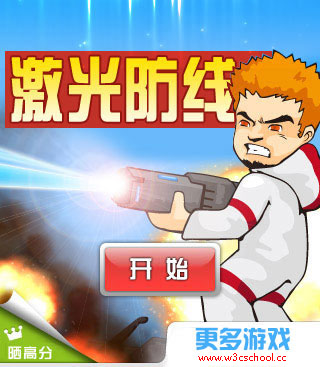
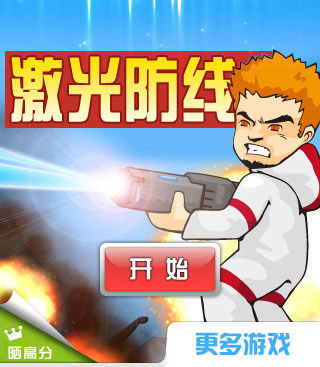
change

Changed region(s): [[0.5938, 0.8692, 0.9062, 0.9891]]

diff --git a/wx/public_html/games/games/hl/index.htm b/wx/public_html/games/games/hl/index.htm
@@ -75,7 +75,7 @@
 
         <div style="position: absolute;margin-top: 0px;margin-left: 0px;width:100%;">
           <a href="http://wx.zongyangtech.cn/games/qrcode/index.html">
-        <img src="http://wx.zongyangtech.cn/games/banner.jpg" style="position: absolute;margin-top: 0px;width:100%;height:50px;"></a>
+        <img src="http://wx.zongyangtech.cn/games/banner.png" style="position: absolute;margin-top: 0px;width:100%;height:50px;"></a>
         </div>
         <div style="position: absolute;margin-top: 50px;margin-left: 0px;width:100%;" id="container">
 		<canvas width="320" height="480" class="canvas" style="background-color: rgb(0, 0, 0); background-image: url(./library/gameback3.gif); "></canvas>

diff --git a/wx/public_html/games/games/ld/index.htm b/wx/public_html/games/games/ld/index.htm
@@ -75,7 +75,7 @@
 
         <div style="position: absolute;margin-top: 0px;margin-left: 0px;width:100%;">
           <a href="http://wx.zongyangtech.cn/games/qrcode/index.html">
-        <img src="http://wx.zongyangtech.cn/games/banner.jpg" style="position: absolute;margin-top: 0px;width:100%;height:50px;"></a>
+        <img src="http://wx.zongyangtech.cn/games/banner.png" style="position: absolute;margin-top: 0px;width:100%;height:50px;"></a>
         </div>
         <div style="position: absolute;margin-top: 50px;margin-left: 0px;width:100%;" id="container">
 		<canvas width="320" height="480" class="canvas" style="background-image: none; background-color: rgb(20, 39, 96); "></canvas>

diff --git a/wx/public_html/games/games/jb/index.htm b/wx/public_html/games/games/jb/index.htm
@@ -75,7 +75,7 @@
 
         <div style="position: absolute;margin-top: 0px;margin-left: 0px;width:100%;">
           <a href="http://wx.zongyangtech.cn/games/qrcode/index.html">
-        <img src="http://wx.zongyangtech.cn/games/banner.jpg" style="position: absolute;margin-top: 0px;width:100%;height:50px;"></a>
+        <img src="http://wx.zongyangtech.cn/games/banner.png" style="position: absolute;margin-top: 0px;width:100%;height:50px;"></a>
         </div>
         <div style="position: absolute;margin-top: 50px;margin-left: 0px;width:100%;" id="container">
 		<canvas width="320" height="480" class="canvas"></canvas>

diff --git a/wx/public_html/games/games/duolao/index.html b/wx/public_html/games/games/duolao/index.html
@@ -18,7 +18,7 @@
 
 <div style="position: absolute;margin-top: 0px;margin-left: 0px;width:100%;">
   <a href="http://wx.zongyangtech.cn/games/qrcode/index.html">
-<img src="http://wx.zongyangtech.cn/games/banner.jpg" style="position: absolute;margin-top: 0px;width:100%;height:50px;"></a>
+<img src="http://wx.zongyangtech.cn/games/banner.png" style="position: absolute;margin-top: 0px;width:100%;height:50px;"></a>
 </div>
 <div style="position: absolute;margin-top: 50px;margin-left: 0px;width:100%;">
 <canvas id="gameCanvas" width="480" height="800" style="background:#fff">

diff --git a/wx/public_html/games/games/duimutou/index.html b/wx/public_html/games/games/duimutou/index.html
@@ -57,7 +57,7 @@ margin: auto;}
 <div style="width:320px; height: 500px;">
 <div style="width:100%; height:50px;text-align:center;overflow:hidden;margin:0 auto;margin-bottom: 10px;">
   <a href="http://wx.zongyangtech.cn/games/qrcode/index.html">
-<img src="http://wx.zongyangtech.cn/games/banner.jpg" style="width:100%;height:50px;"></a>
+<img src="http://wx.zongyangtech.cn/games/banner.png" style="width:100%;height:50px;"></a>
 </div>
 <div style="position: absolute;margin-top: 400px; width: 320px; heigth: 48px; background: #ffffff"></div>
 

diff --git a/wx/public_html/phone_web/index.html b/wx/public_html/phone_web/index.html
@@ -118,7 +118,7 @@
 			<li>
 				<div class="slide">
 					<div class="related">
-                                                <p>关注纵阳科技，我们承诺连续100天每天为您奉献一款微信小游戏！</p>
+                                                <p>关注纵阳科技，兔子君承诺每周推送至少4款微信小游戏,至少推出100款.请将您喜欢的游戏分享到朋友圈,兔子君在此谢过.</p>
 					</div>
 				</div>
 			</li>

diff --git a/wx/public_html/games/qrcode/index.html b/wx/public_html/games/qrcode/index.html
@@ -33,7 +33,7 @@
 <div class="animate below"></div>
 <div class="animate above"></div>
 <div style="text-align:center;">
-<p>来源:<a href="http://wx.zongyangtech.cn" target="_blank">纵阳科技</a></p>
+<p>来源:<a href="http://wx.zongyangtech.cn/phone_web/index.html" target="_blank">纵阳科技</a></p>
 </div>
 </body>
 </html>

diff --git a/wx/public_html/games/games/jg/static/gm12.min.js b/wx/public_html/games/games/jg/static/gm12.min.js
@@ -1963,9 +1963,9 @@ function ist() {
 	};
 	img5 = new Image;
 	if (document.URL.indexOf("page") == -1) {
-		img5.src = "ds/gameover.gif"
+        img5.src = "ds/gameover.jpg"
 	} else {
-		img5.src = "ds/gameover_s.gif"
+        img5.src = "ds/gameover.jpg"
 	}
 	img5.onload = function() {
 		gsts()
